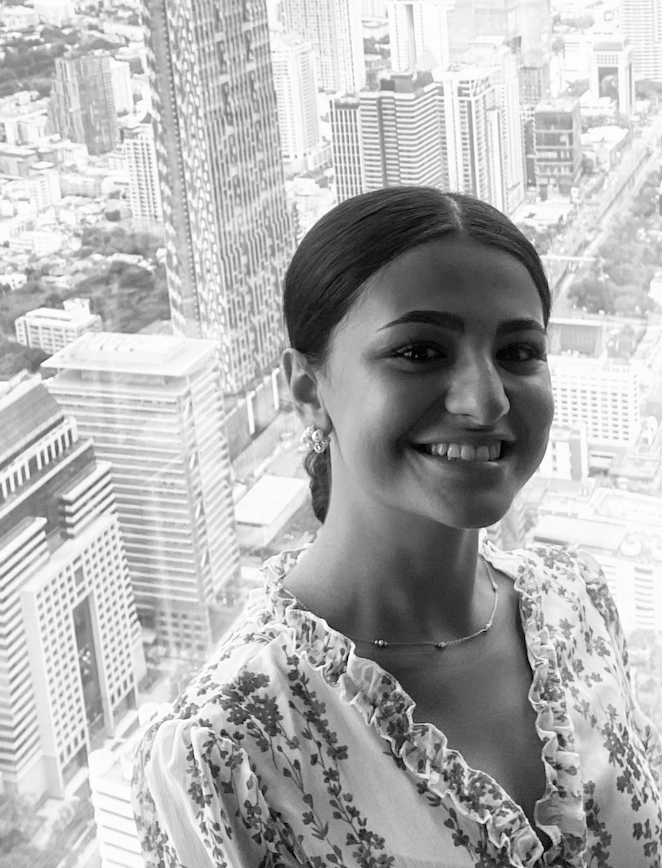
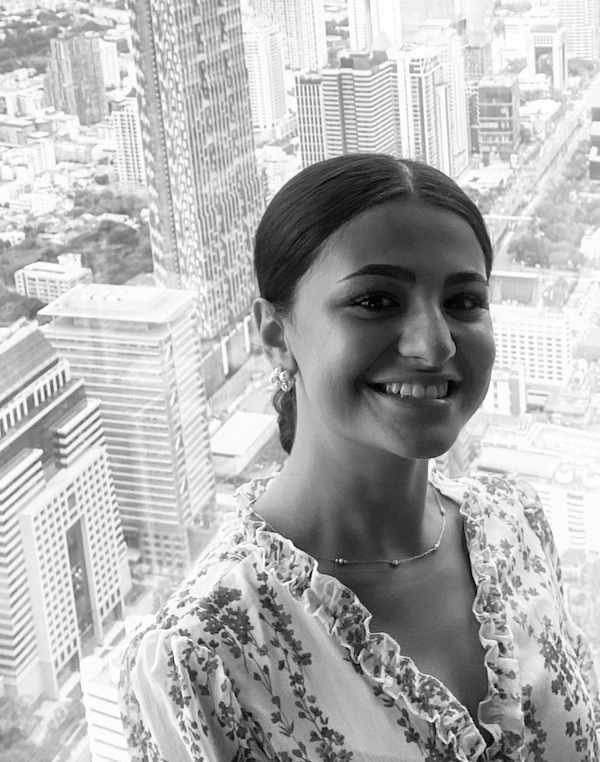
projekt side virker

diff --git a/general.css b/general.css
@@ -14,7 +14,6 @@ html {
   --primary: #e5e3db;
   --secondary: #3b4b46;
   --accent: #050505;
-  --brun: #000000;
 }
 
 body {
@@ -157,7 +156,6 @@ footer {
     background-color: var(--primary);
     padding: 1.5rem;
   }
-  /* logoet er sat ind som baggrundsbillede, i stedet for img tag i menuen */
   #logo {
     background-image: url(/logo.svg);
     background-size: cover;
@@ -193,6 +191,7 @@ footer {
     font-weight: 600;
     font-style: normal;
     font-size: 1.5rem;
+    padding: 40%;
   }
 
   .streg1 {
@@ -206,8 +205,7 @@ footer {
   }
 
   .header li a {
-    /* padding: 20px 30px; */
-    padding: 60px 70px; /* disse værdier er dem der gør logoet større i desktop */
+    padding: 60px 70px;
   }
   .header .menu {
     clear: none;
@@ -230,7 +228,6 @@ footer {
   img.logo-mobil {
     width: 30%;
   }
-  /* 'boks' rundt om logoet så vi kan styre højden */
   div.logo-mobil-container {
     height: 110px;
   }

diff --git a/projekter.html b/projekter.html
@@ -26,11 +26,10 @@
                 <li><a href="ommig.html">OM MIG</a></li>
                 <li><a href="index.html" id="logo"></a></li>
                 <li><a href="projekter.html">PROJEKTER</a></li>
-                <!-- img fjernet, og billedet er indat som baggrundsbillede -->
                 <li><a href="cv.html">CV</a></li>
+
             </ul>
         </nav>
-        <!-- div oprettet og bruges til at lave luft rundt om stregerne ude i siderne, i moobil størrelse -->
         <div class="mobil-streger-container">
             <div class="streg1"></div>
             <div class="streg2"></div>

diff --git a/style.css b/style.css
@@ -133,6 +133,11 @@ h3 {
   font-size: 150%;
   margin-top: -2%;
 }
+#overskrift6 {
+  padding-bottom: 4rem;
+  font-size: 150%;
+  margin-top: -2%;
+}
 
 .grid_1-1 {
   display: grid;
@@ -215,7 +220,9 @@ h3 {
     padding-bottom: 2rem;
   }
 
-  .mig.webp {
+  img#mig {
     order: 10;
+    width: 100%;
+    height: 30%;
   }
 }
